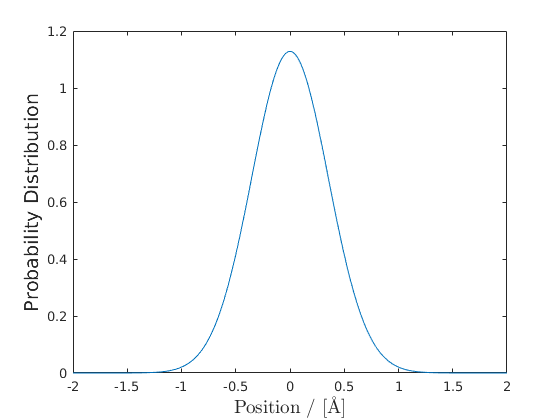
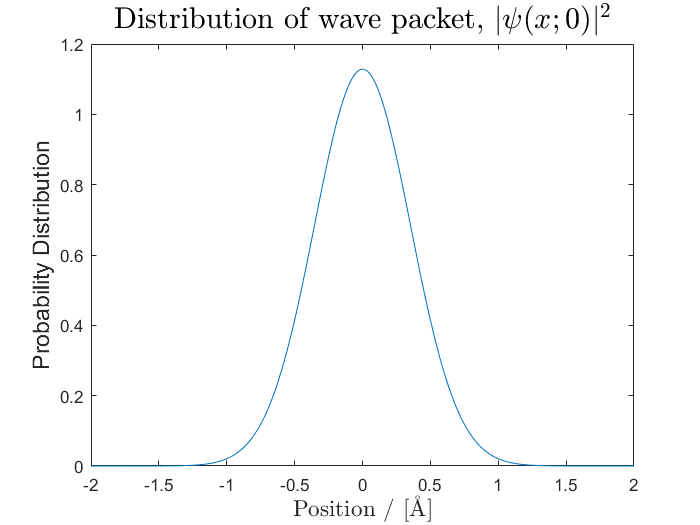
Added introduction text

diff --git a/report/report.tex b/report/report.tex
@@ -12,40 +12,48 @@
 
 \section*{Introduction}
 
+In quantum mechanics, the time evolution of a state vector $\left|\psi(t)\right>$ is given by the time independent schrödinger equation,
+
+\begin{equation}
+i\hbar\frac{\partial}{\partial t}\left|\psi(t)\right> = \hat{H}\left|\psi(t)\right>
+\end{equation}.
+
+This equation can be written using the initial state vector and a time evolution operator $\hat{U}$,
+
+\begin{equation}
+\left|\psi(t)\right> = \hat{U}\left|\psi(0)\right>,
+\end{equation}
+
+where the time evolution operator is given by $\hat{U}=exp\left(-\frac{i}{\hbar}\hat{H}t\right)$.
+
+To numerically calculate the evolution of the state vector a short time propagator can be applied repeatedly,
+
+\begin{equation}
+\left|\psi(t+\Delta t)\right> = \hat{U}(t)\left|\psi(t)\right>.
+\end{equation}
+
+For this problem we can split the Hamiltonian operator $\hat{H}=\hat{T}+\hat{V}$. These operators act on different coordinates, the momentum $p$ and the position $x$. Since these are the Fourier transforms of each other, we can calculate the time evolution operator in each domain by taking the Fourier transform back and forth and by making some approximations. The final form of the time step can then be written as the so called split operator FFT method,
+
+\begin{equation}
+\psi(x;t+\Delta t)= \mathcal{F}^{-1}\left[\exp\left(-\frac{i}{\hbar}\frac{p'^{2}}{2m}\right)\mathcal{F}\left[\exp\left(-\frac{i}{\hbar}V(x')\Delta t\right)\psi(x',t)\right]\right]
+\end{equation}
+
+where $\mathcal{F}$ is the Fourier transform\cite{probdesc}. 
+
 \section*{Problem 1}
 
-In this first problem we use FFT to transition between the space and momentum wave packet for a hydrogen atom. We also compare the wave packet obtained to the analytically derived packet, via Fourier transform.
+In this first problem we use FFT to transition between the space and momentum wave packet for a free hydrogen atom. We also compare the wave packet obtained to the analytically derived packet, via Fourier transform.
 
-It was suggested that \AA, fs and eV should be the units used for length, time and energy respectively. Expressed in these units the mass of the atom has the approximate numerical value 103.7500 and the expected momentum $p_0$ has the numerical value 4.5552. The constant $\hbar$ gets the approximate numerical value 0.6579.
+It was suggested that \AA, fs and eV should be the units used for length, time and energy respectively. Expressed in these units the mass of the atom has the approximate numerical value 103.7500 and the constant $\hbar$ gets the approximate numerical value 0.6579. The mean of the momentum $p_0$ is set so that $p_0^2/2m=\unit[0.1]{eV}$ which gives the numerical value 4.5552.
 
 The initial distribution of the Gaussian wave packet is given by
 \begin{equation}
-	\psi(x;0)=\frac{1}{(\pi d^2)^{1/4}} \exp(-\frac{(x-x_0)^2}{2d^2}) \exp(i p_0(x-x_0)/\hbar),
+	\psi(x;0)=\frac{1}{(\pi d^2)^{1/4}} \exp\left(-\frac{(x-x_0)^2}{2d^2}\right) \exp(i p_0(x-x_0)/\hbar),
 \end{equation}
-where $d$ is the witdth of the packet, $x_0$ and $p_0$ are the corresponding initial position and momenta.
+where $d$ is the width of the packet, $x_0$ and $p_0$ are the corresponding initial expected position and momenta.
 
+To be able to see the distribution of the wave packet we use the probability distribution $n(x)=|\psi(x)|^2$. If we discretizise this wave packet we can use a FFT algorithm (Fast Fourier Transform) to receive the corresponding wave in momentum space. Another way to receive the momentum wave is by taking the Fourier transform of the analytic expression. Since The Fourier transform of a Gaussian is another Gaussian we retrieve the same form of the wave with different parameters. The analytical derivation of the Fourier transform is given below.
 
-
-\begin{figure}[H]
-    \centering
-    \captionsetup[subfigure]{justification=centering}
-    \begin{subfigure}[b]{0.8\textwidth}
-        \centering
-        \includegraphics[width=\textwidth]{graphics/task1/position_prob.png}
-		\caption{}
-		\label{fig:1_a}
-    \end{subfigure}
-    \begin{subfigure}[b]{0.8\textwidth}
-        \centering
-        \includegraphics[width=\textwidth]{graphics/task1/momentum_prob.png}
-        \caption{}
-		\label{fig:1_b}
-    \end{subfigure}
-    \caption{\textit{(a):} The positive half of the wave packet in space. Given that it is a Gaussian distribution with zero mean, it is symmetrical around the y-axis. \textit{(b):} The wave packet in momentum space. The blue graph is the result obtained from numerically doing FFT on the initial wave packet. The red dashed graph is the analytical solution. Due to their similarity, the two graphs are difficult to distinguish from each other.}
-    \label{fig:1}
-\end{figure}
-
-The analytical derivation of the Fourier transform is given below.
 \begin{equation}
 \begin{split}
 	\mathcal{F}\left[\psi(x;0)\right](p) 							& =  \int_{-inf}^{inf} e^{-ipx} \psi(x;0) dx \\
@@ -73,25 +81,46 @@ x'		& \rightarrow x\\
 \end{split}
 \end{equation}
 
+In Fig. \ref{fig:1} we can see the similarities of the analytic and numerical results.
+
+\begin{figure}[H]
+    \centering
+    \captionsetup[subfigure]{justification=centering}
+    \begin{subfigure}[b]{0.8\textwidth}
+        \centering
+        \includegraphics[width=\textwidth]{graphics/task1/position_prob.png}
+		\caption{}
+		\label{fig:1_a}
+    \end{subfigure}
+    \begin{subfigure}[b]{0.8\textwidth}
+        \centering
+        \includegraphics[width=\textwidth]{graphics/task1/momentum_prob.png}
+        \caption{}
+		\label{fig:1_b}
+    \end{subfigure}
+    \caption{\textit{(a):} The positive half of the wave packet in space. Given that it is a Gaussian distribution with zero mean, it is symmetrical around the y-axis. \textit{(b):} The wave packet in momentum space. The blue graph is the result obtained from numerically doing FFT on the initial wave packet. The red dashed graph is the analytical solution. Due to their similarity, the two graphs are difficult to distinguish from each other.}
+    \label{fig:1}
+\end{figure}
+
 
 \section*{Problem 2}
 
-\begin{figure}
+\begin{figure}[H]
 \centering
 \begin{subfigure}[t]{0.7\textwidth}
-%\includegraphics[width=\textwidth]{}
+\includegraphics[width=\textwidth]{graphics/Task2/position.png}
 \caption{}
 \label{fig:2_a}
 \end{subfigure}
 
 \begin{subfigure}[t]{0.7\textwidth}
-%\includegraphics[width=\textwidth]{}
+\includegraphics[width=\textwidth]{graphics/Task2/momentum.png}
 \caption{}
 \label{fig:2_b}
 \end{subfigure}
 
 \begin{subfigure}[t]{0.7\textwidth}
-%\includegraphics[width=\textwidth]{}
+\includegraphics[width=\textwidth]{graphics/Task2/width_evolution.png}
 \caption{}
 \label{fig:2_c}
 \end{subfigure}

diff --git a/code/main2.m b/code/main2.m
@@ -44,18 +44,11 @@ exp_potential = exp(-1i/hbar.*potential*dt);
 inv_pot = exp(-1i/hbar*(hbar^2*p.^2./(2*m))*dt);
 
 
-% Plot initial prob.distr.
-figure(1); clf;
-plotX=1:n_points;
-plot(x(plotX), abs(step_three(plotX).^2))
-xlim([0 2])
-xlabel('Position / [\AA]', 'interpreter', 'latex', 'fontsize', 14)
-ylabel('Probability distribution', 'fontsize', 14)
-title('$\left| \psi (0) \right|^2$', 'interpreter', 'latex', 'fontsize', 18)
 
+plotX=1:n_points;
 % Plot the rest in a separate figure
 
-figure(2); clf;
+figure(1); clf;
 plotHandle_1 = plot(x(plotX), abs(step_three(plotX)).^2);
 hold on
 plotHandle_Mean = plot([p_0*0*dt/m,p_0*0*dt/m],[0, max(abs(step_three(plotX)).^2)]);
@@ -64,8 +57,9 @@ hold off
 
 xlabel('Position / [\AA]', 'interpreter', 'latex', 'fontsize', 14)
 ylabel('Probability distribution', 'fontsize', 14)
-s=sprintf('$\\left| \\psi (t = %i \\; \\mathrm{fs}) \\right|^2$',j*dt);
+s=sprintf('Distribution of wave packet, $\\left| \\psi (x;t = %i \\; \\mathrm{fs}) \\right|^2$',j*dt);
 title(s, 'interpreter', 'latex', 'fontsize', 18)
+legend({'Numerical distribution','Analytic Mean','Analytic distribution'},'interpreter','latex','location','northwest')
 
 
 gaussian_momentum = abs(fftshift(fft(step_three(plotX)))).^2;
@@ -94,22 +88,24 @@ set(plotHandle_Mean, 'YData',[0 max(Gaussian_Time_Probability(x(plotX),j*dt))])
 set(plotHandle_Mean, 'XData', [p_0*j*dt/m,p_0*j*dt/m])
 set(plotHandle_2, 'YData', Gaussian_Time_Probability(x(plotX),j*dt))
 
-s=sprintf('$\\left| \\psi (t = %i \\; \\mathrm{fs}) \\right|^2$',j*dt);
+s=sprintf('Distribution of wave packet, $\\left| \\psi (x;t = %i \\; \\mathrm{fs}) \\right|^2$',j*dt);
 title(s, 'interpreter', 'latex', 'fontsize', 18)
 
 
 
-figure(3); clf;
-plotHandle_1 = plot(p(plotX)/p_0, abs(step_three(plotX)).^2);
+figure(2); clf;
+plotHandle_1 = plot(p(plotX)/p_0, abs(fftshift(fft(step_three(plotX)))).^2);
 hold on
+% CHANGE TO ANALYTIC FOURIER
 plotHandle_2 = plot(p(plotX)/p_0, abs(fftshift(fft(Gaussian_Wave_Time_Evolution(x(plotX),j*dt)))).^2,'--');
 hold off
-xlabel('$P/p_0$', 'interpreter', 'latex', 'fontsize', 14)
+xlabel('NEED ANALYTIC FOURIER OF WAVE $P/p_0$', 'interpreter', 'latex', 'fontsize', 14)
 ylabel('Probability distribution', 'fontsize', 14)
-s=sprintf('$\\left| \\psi (t = %i \\; \\mathrm{fs}) \\right|^2$',j*dt);
+s=sprintf('Distribution of wave packet, $\\left| \\psi (p;t = %i \\; \\mathrm{fs}) \\right|^2$',j*dt);
 title(s, 'interpreter', 'latex', 'fontsize', 18)
+legend({'Numerical distribution','Analytic Mean','Analytic distribution'},'interpreter','latex','location','northwest')
 
-fig = figure(4);
+fig = figure(3);
 left_color = [0 0 0];
 right_color = [0 0 0];
 set(fig,'defaultAxesColorOrder',[left_color; right_color]);
@@ -118,13 +114,14 @@ plotHandle_wPosition = plot(gaussian_width_position,'b');
 hold on
 plotHandle_wPosition_Theoretical = plot(Theoretical_Width_Position(((1:length(gaussian_width_position))-1)*dt),'--r');
 hold off
-xlabel('$itererings variabel$', 'interpreter', 'latex', 'fontsize', 14)
-ylabel('\Delta X(t)', 'fontsize', 14)
+xlabel('Time / [fs]', 'interpreter', 'latex', 'fontsize', 14)
+ylabel('Position \Delta X(t)', 'fontsize', 14)
 yyaxis right 
 plotHandle_wMomentum = plot(gaussian_width_momentum,'r');
 hold on
-plotHandle_wMomentum_Theoretical = plot(Theoretical_Width_Momentum(((1:length(gaussian_width_position))-1)*dt),'--g');
+plotHandle_wMomentum_Theoretical = plot(Theoretical_Width_Momentum(((1:length(gaussian_width_position))-1)*dt),'--b');
 hold off
-ylabel('\Delta P(t)', 'fontsize', 14)
-s=sprintf('$Uncertainty of Wave Packets$',j*dt);
+ylabel('Momentum \Delta P(t)', 'fontsize', 14)
+s=sprintf('Time Evolution of Wave Packet Width, $\\psi (x/p;t)$',j*dt);
 title(s, 'interpreter', 'latex', 'fontsize', 18)
+legend({'Numerical Position Wave Width','Analytic Position Wave Width','Numerical Momentum Wave Width','Analytical Momentum Wave Width'},'interpreter','latex','location','northwest')

diff --git a/code/main1.m b/code/main1.m
@@ -51,6 +51,7 @@ xlabel('Momentum / $p_0$', 'interpreter', 'latex', 'fontsize', 14)
 ylabel('Probability distribution', 'fontsize', 14)
 L = legend('Numerically obtained via FFT', 'Analytically obtained via FT');
 set(L, 'location', 'northwest')
+title('Distribution of wave packet, $|\psi(p;0)|^2$','interpreter','latex','fontsize',18)
 
 % Plot prob.distr. in normal space
 figure(2); clf;
@@ -58,3 +59,4 @@ plot(x, prob)
 xlim([-2 2])
 ylabel('Probability Distribution', 'fontsize', 14)
 xlabel('Position / [\AA]', 'interpreter', 'latex', 'fontsize', 14)
+title('Distribution of wave packet, $|\psi(x;0)|^2$','interpreter','latex','fontsize',18)
